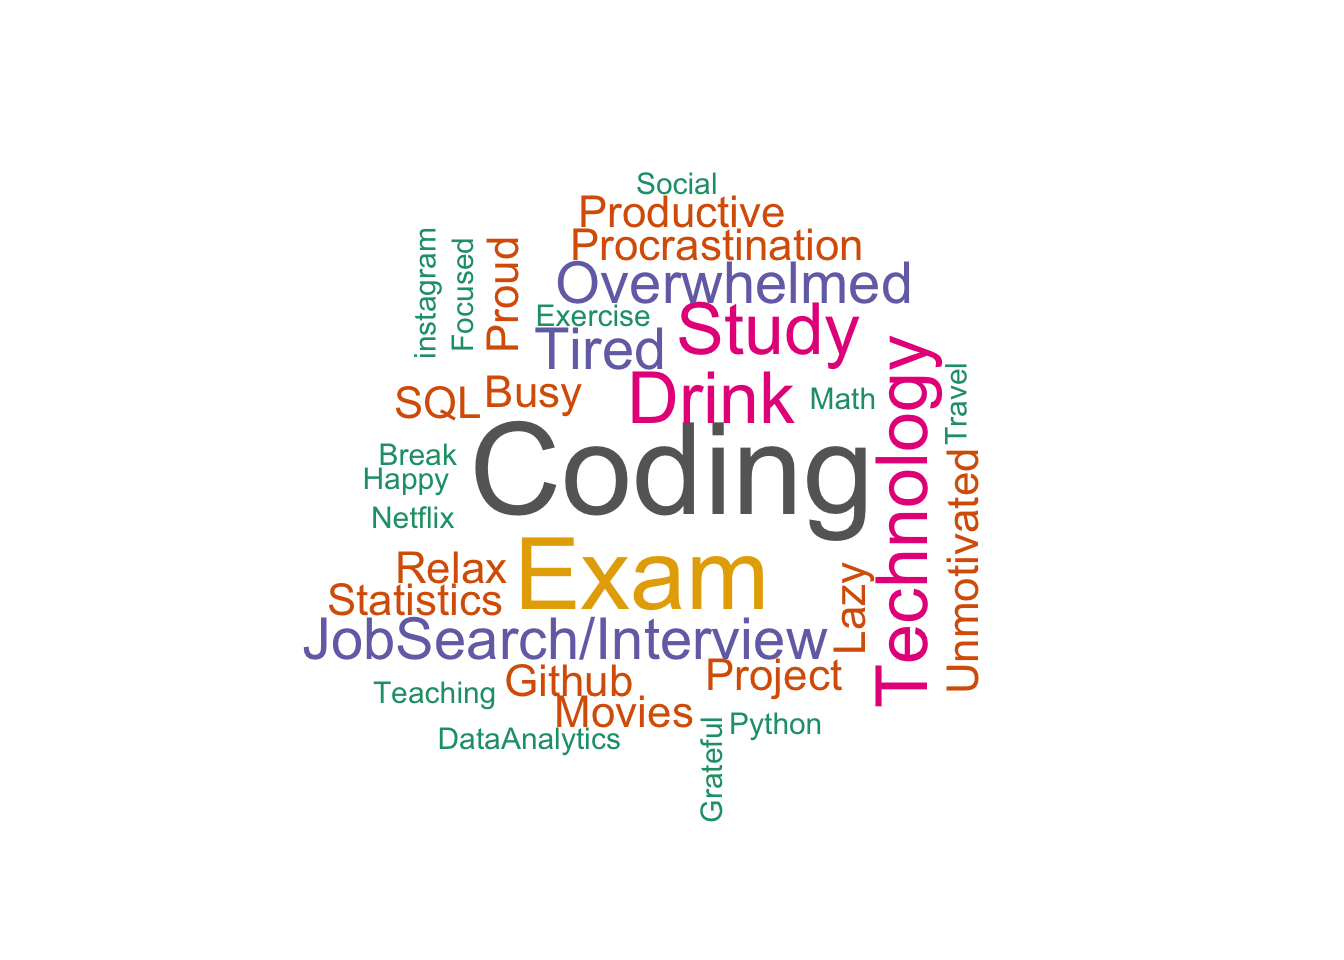
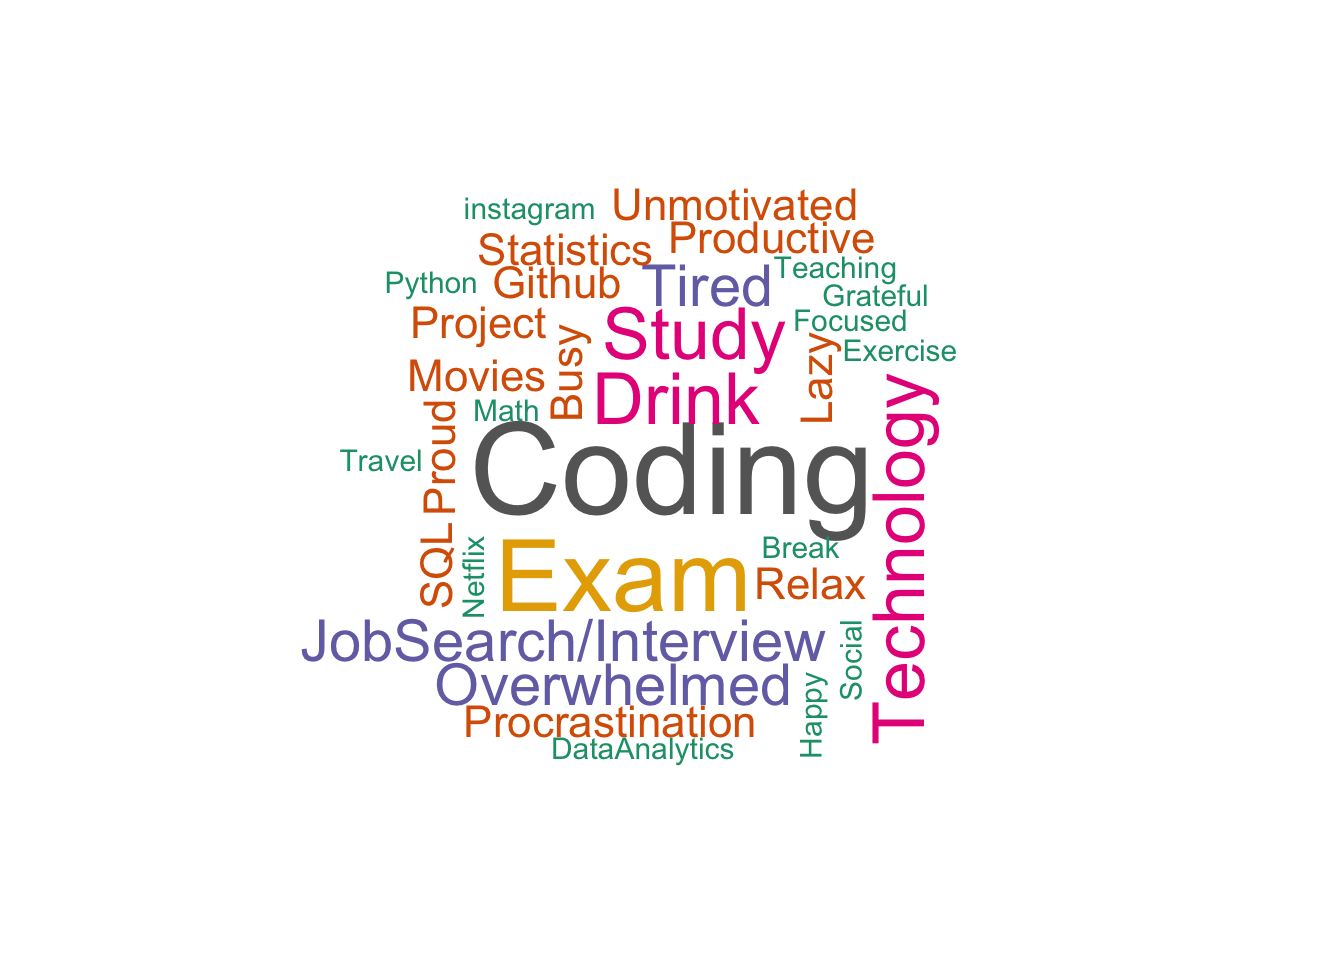
monthly evaluation modified

Changed region(s): [[0.2188, 0.1875, 0.75, 0.8438]]

diff --git a/monthly_evaluation.html b/monthly_evaluation.html
@@ -315,37 +315,14 @@ $(document).ready(function () {
 </div>
 
 
-<pre class="r"><code>cur_month = month(Sys.Date())
-if (nchar(cur_month - 1) == 1 &amp; cur_month != 1){
-  previous_month = cur_month - 1  
-  previous_month = paste0(&quot;0&quot;, previous_month, &#39;/&#39;)
-} else if (cur_month == 1){
-  previous_month = 12
-  previous_month = paste0(previous_month, &#39;/&#39;)
-} else {
-  previous_month = cur_month - 1
-  previous_month = paste0(previous_month, &#39;/&#39;)
-}
-cur_year = paste0(&#39;/&#39;,year(Sys.Date()))
-
-
-words_dat &lt;- all_dat %&gt;%
-  select(Key_words, Date) %&gt;%
-  filter(startsWith(Date, previous_month) == TRUE)  %&gt;%
-  filter(endsWith(Date, cur_year) == TRUE) %&gt;%
-  filter(Key_words != 0 &amp; Key_words != &#39;&#39; &amp; Key_words != &#39;[]&#39;) %&gt;%
-  mutate(Key_words = gsub(&#39;[\&#39;]&#39;,&#39;&#39;,Key_words),
-         Key_words = gsub(&#39;[\\[]&#39;,&#39;&#39;,Key_words),
-         Key_words = gsub(&#39;\\]&#39;,&#39;&#39;,Key_words)) %&gt;%
-  separate(Key_words, c(&#39;word_1&#39;, &#39;word_2&#39;, &#39;word_3&#39;), sep = &#39;,&#39;) %&gt;%
-  pivot_longer(cols = starts_with(&quot;word&quot;), names_to = &#39;word_num&#39;, values_to = &#39;words&#39;) %&gt;%
-  mutate(words = gsub(&quot; &quot;, &quot;&quot;, words)) %&gt;%
-  group_by(words) %&gt;%
-  summarise(freq = n())</code></pre>
+<p><br></p>
+<div id="may-2022" class="section level1">
+<h1><strong>May 2022</strong></h1>
 <pre class="r"><code>wordcloud(words = words_dat$words, freq = words_dat$freq, min.freq = .01,           
           max.words=70, random.order=FALSE, rot.per=0.35,            
           colors=brewer.pal(8, &quot;Dark2&quot;))</code></pre>
-<p><img src="monthly_evaluation_files/figure-html/unnamed-chunk-3-1.png" width="672" /></p>
+<p><img src="monthly_evaluation_files/figure-html/unnamed-chunk-4-1.png" width="672" /></p>
+</div>
 
 
 
